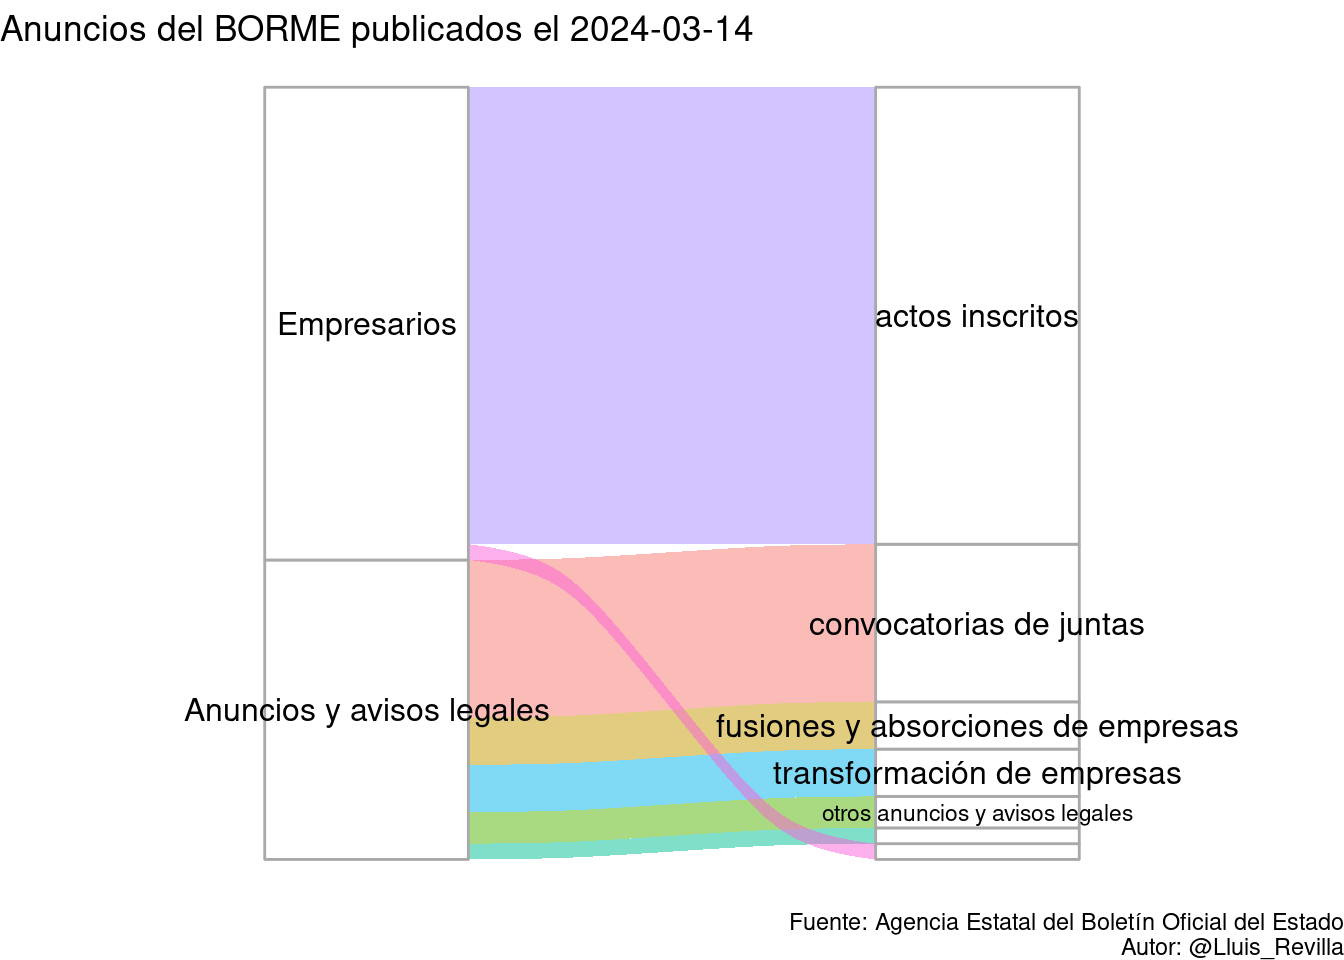
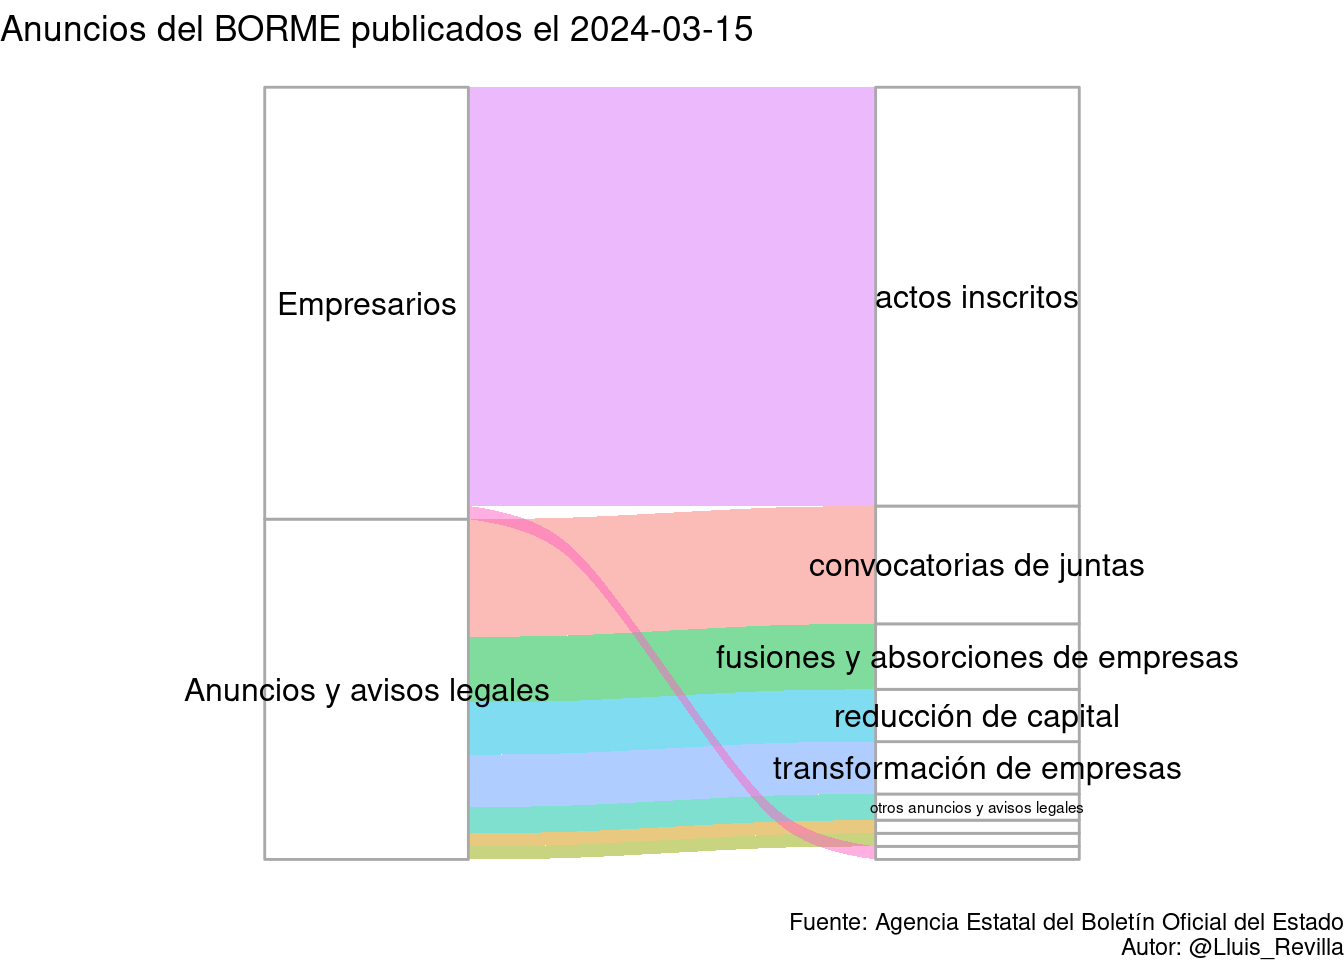
Update BORME

Changed region(s): [[0.125, 0.0938, 0.9375, 0.9062], [0.5312, 0.0, 0.5625, 0.0625]]

diff --git a/docs/last_BORME.html b/docs/last_BORME.html
@@ -379,14 +379,14 @@ $(document).ready(function () {
 
 <div id="resumen-gráfico" class="section level1">
 <h1>Resumen gráfico</h1>
-<p>Esta página web contiene el último sumario del BORME publicado el 2024-03-14 con 49 publicaciones.</p>
+<p>Esta página web contiene el último sumario del BORME publicado el 2024-03-15 con 59 publicaciones.</p>
 <p><img src="last_BORME_files/figure-html/graphics-1.png" width="672" /></p>
 </div>
 <div id="tabla-de-publicaciones" class="section level1">
 <h1>Tabla de publicaciones</h1>
 <p>Aquí está la tabla completa con enlaces a las publicaciones:</p>
-<div class="datatables html-widget html-fill-item-overflow-hidden html-fill-item" id="htmlwidget-f399342e3f650a864ad3" style="width:100%;height:auto;"></div>
-<script type="application/json" data-for="htmlwidget-f399342e3f650a864ad3">{"x":{"filter":"top","vertical":false,"filterHTML":"<tr>\n  <td><\/td>\n  <td data-type=\"character\" style=\"vertical-align: top;\">\n    <div class=\"form-group has-feedback\" style=\"margin-bottom: auto;\">\n      <input type=\"search\" placeholder=\"All\" class=\"form-control\" style=\"width: 100%;\"/>\n      <span class=\"glyphicon glyphicon-remove-circle form-control-feedback\"><\/span>\n    <\/div>\n  <\/td>\n  <td data-type=\"character\" style=\"vertical-align: top;\">\n    <div class=\"form-group has-feedback\" style=\"margin-bottom: auto;\">\n      <input type=\"search\" placeholder=\"All\" class=\"form-control\" style=\"width: 100%;\"/>\n      <span class=\"glyphicon glyphicon-remove-circle form-control-feedback\"><\/span>\n    <\/div>\n  <\/td>\n  <td data-type=\"character\" style=\"vertical-align: top;\">\n    <div class=\"form-group has-feedback\" style=\"margin-bottom: auto;\">\n      <input type=\"search\" placeholder=\"All\" class=\"form-control\" style=\"width: 100%;\" disabled=\"\"/>\n      <span class=\"glyphicon glyphicon-remove-circle form-control-feedback\"><\/span>\n    <\/div>\n  <\/td>\n  <td data-type=\"character\" style=\"vertical-align: top;\">\n    <div class=\"form-group has-feedback\" style=\"margin-bottom: auto;\">\n      <input type=\"search\" placeholder=\"All\" class=\"form-control\" style=\"width: 100%;\"/>\n      <span class=\"glyphicon glyphicon-remove-circle form-control-feedback\"><\/span>\n    <\/div>\n  <\/td>\n<\/tr>","data":[["1","2","3","4","5","6","7","8","9","10","11","12","13","14","15","16","17","18","19","20","21","22","23","24","25","26","27","28","29","30","31","32","33","34","35","36","37","38","39","40","41","42","43","44","45","46","47","48","49"],["SECCIÓN PRIMERA. Empresarios","SECCIÓN PRIMERA. Empresarios","SECCIÓN PRIMERA. Empresarios","SECCIÓN PRIMERA. Empresarios","SECCIÓN PRIMERA. Empresarios","SECCIÓN PRIMERA. Empresarios","SECCIÓN PRIMERA. Empresarios","SECCIÓN PRIMERA. Empresarios","SECCIÓN PRIMERA. Empresarios","SECCIÓN PRIMERA. Empresarios","SECCIÓN PRIMERA. Empresarios","SECCIÓN PRIMERA. Empresarios","SECCIÓN PRIMERA. Empresarios","SECCIÓN PRIMERA. Empresarios","SECCIÓN PRIMERA. Empresarios","SECCIÓN PRIMERA. Empresarios","SECCIÓN PRIMERA. Empresarios","SECCIÓN PRIMERA. Empresarios","SECCIÓN PRIMERA. Empresarios","SECCIÓN PRIMERA. Empresarios","SECCIÓN PRIMERA. Empresarios","SECCIÓN PRIMERA. Empresarios","SECCIÓN PRIMERA. Empresarios","SECCIÓN PRIMERA. Empresarios","SECCIÓN PRIMERA. Empresarios","SECCIÓN PRIMERA. Empresarios","SECCIÓN PRIMERA. Empresarios","SECCIÓN PRIMERA. Empresarios","SECCIÓN PRIMERA. Empresarios","SECCIÓN PRIMERA. Empresarios","SECCIÓN SEGUNDA. Anuncios y avisos legales","SECCIÓN SEGUNDA. Anuncios y avisos legales","SECCIÓN SEGUNDA. Anuncios y avisos legales","SECCIÓN SEGUNDA. Anuncios y avisos legales","SECCIÓN SEGUNDA. Anuncios y avisos legales","SECCIÓN SEGUNDA. Anuncios y avisos legales","SECCIÓN SEGUNDA. Anuncios y avisos legales","SECCIÓN SEGUNDA. Anuncios y avisos legales","SECCIÓN SEGUNDA. Anuncios y avisos legales","SECCIÓN SEGUNDA. Anuncios y avisos legales","SECCIÓN SEGUNDA. Anuncios y avisos legales","SECCIÓN SEGUNDA. Anuncios y avisos legales","SECCIÓN SEGUNDA. Anuncios y avisos legales","SECCIÓN SEGUNDA. Anuncios y avisos legales","SECCIÓN SEGUNDA. Anuncios y avisos legales","SECCIÓN SEGUNDA. Anuncios y avisos legales","SECCIÓN SEGUNDA. Anuncios y avisos legales","SECCIÓN SEGUNDA. Anuncios y avisos legales","SECCIÓN SEGUNDA. Anuncios y avisos legales"],["Actos inscritos","Actos inscritos","Actos inscritos","Actos inscritos","Actos inscritos","Actos inscritos","Actos inscritos","Actos inscritos","Actos inscritos","Actos inscritos","Actos inscritos","Actos inscritos","Actos inscritos","Actos inscritos","Actos inscritos","Actos inscritos","Actos inscritos","Actos inscritos","Actos inscritos","Actos inscritos","Actos inscritos","Actos inscritos","Actos inscritos","Actos inscritos","Actos inscritos","Actos inscritos","Actos inscritos","Actos inscritos","Actos inscritos","Otros actos publicados en el Registro Mercantil","CONVOCATORIAS DE JUNTAS","CONVOCATORIAS DE JUNTAS","CONVOCATORIAS DE JUNTAS","CONVOCATORIAS DE JUNTAS","CONVOCATORIAS DE JUNTAS","CONVOCATORIAS DE JUNTAS","CONVOCATORIAS DE JUNTAS","CONVOCATORIAS DE JUNTAS","CONVOCATORIAS DE JUNTAS","CONVOCATORIAS DE JUNTAS","FUSIONES Y ABSORCIONES DE EMPRESAS","FUSIONES Y ABSORCIONES DE EMPRESAS","FUSIONES Y ABSORCIONES DE EMPRESAS","TRANSFORMACIÓN DE EMPRESAS","TRANSFORMACIÓN DE EMPRESAS","TRANSFORMACIÓN DE EMPRESAS","REDUCCIÓN DE CAPITAL","OTROS ANUNCIOS Y AVISOS LEGALES","OTROS ANUNCIOS Y AVISOS LEGALES"],[null,null,null,null,null,null,null,null,null,null,null,null,null,null,null,null,null,null,null,null,null,null,null,null,null,null,null,null,null,null,null,null,null,null,null,null,null,null,null,null,null,null,null,null,null,null,null,null,null],["BORME-A-2024-53-01","BORME-A-2024-53-02","BORME-A-2024-53-03","BORME-A-2024-53-04","BORME-A-2024-53-06","BORME-A-2024-53-07","BORME-A-2024-53-08","BORME-A-2024-53-11","BORME-A-2024-53-12","BORME-A-2024-53-14","BORME-A-2024-53-15","BORME-A-2024-53-16","BORME-A-2024-53-22","BORME-A-2024-53-24","BORME-A-2024-53-25","BORME-A-2024-53-28","BORME-A-2024-53-29","BORME-A-2024-53-31","BORME-A-2024-53-33","BORME-A-2024-53-34","BORME-A-2024-53-35","BORME-A-2024-53-36","BORME-A-2024-53-38","BORME-A-2024-53-43","BORME-A-2024-53-46","BORME-A-2024-53-47","BORME-A-2024-53-48","BORME-A-2024-53-49","BORME-A-2024-53-99","BORME-B-2024-53-08","BORME-C-2024-813","BORME-C-2024-814","BORME-C-2024-815","BORME-C-2024-816","BORME-C-2024-817","BORME-C-2024-818","BORME-C-2024-819","BORME-C-2024-820","BORME-C-2024-821","BORME-C-2024-822","BORME-C-2024-823","BORME-C-2024-824","BORME-C-2024-825","BORME-C-2024-826","BORME-C-2024-827","BORME-C-2024-828","BORME-C-2024-829","BORME-C-2024-830","BORME-C-2024-831"]],"container":"<table class=\"display\">\n  <thead>\n    <tr>\n      <th> <\/th>\n      <th>Sección<\/th>\n      <th>Emisor<\/th>\n      <th>Texto<\/th>\n      <th>Link<\/th>\n    <\/tr>\n  <\/thead>\n<\/table>","options":{"pageLength":10,"autoWidth":true,"columnDefs":[{"orderable":false,"targets":0},{"name":" ","targets":0},{"name":"Sección","targets":1},{"name":"Emisor","targets":2},{"name":"Texto","targets":3},{"name":"Link","targets":4}],"order":[],"orderClasses":false,"orderCellsTop":true}},"evals":[],"jsHooks":[]}</script>
+<div class="datatables html-widget html-fill-item-overflow-hidden html-fill-item" id="htmlwidget-44293242d05789558b8e" style="width:100%;height:auto;"></div>
+<script type="application/json" data-for="htmlwidget-44293242d05789558b8e">{"x":{"filter":"top","vertical":false,"filterHTML":"<tr>\n  <td><\/td>\n  <td data-type=\"character\" style=\"vertical-align: top;\">\n    <div class=\"form-group has-feedback\" style=\"margin-bottom: auto;\">\n      <input type=\"search\" placeholder=\"All\" class=\"form-control\" style=\"width: 100%;\"/>\n      <span class=\"glyphicon glyphicon-remove-circle form-control-feedback\"><\/span>\n    <\/div>\n  <\/td>\n  <td data-type=\"character\" style=\"vertical-align: top;\">\n    <div class=\"form-group has-feedback\" style=\"margin-bottom: auto;\">\n      <input type=\"search\" placeholder=\"All\" class=\"form-control\" style=\"width: 100%;\"/>\n      <span class=\"glyphicon glyphicon-remove-circle form-control-feedback\"><\/span>\n    <\/div>\n  <\/td>\n  <td data-type=\"character\" style=\"vertical-align: top;\">\n    <div class=\"form-group has-feedback\" style=\"margin-bottom: auto;\">\n      <input type=\"search\" placeholder=\"All\" class=\"form-control\" style=\"width: 100%;\" disabled=\"\"/>\n      <span class=\"glyphicon glyphicon-remove-circle form-control-feedback\"><\/span>\n    <\/div>\n  <\/td>\n  <td data-type=\"character\" style=\"vertical-align: top;\">\n    <div class=\"form-group has-feedback\" style=\"margin-bottom: auto;\">\n      <input type=\"search\" placeholder=\"All\" class=\"form-control\" style=\"width: 100%;\"/>\n      <span class=\"glyphicon glyphicon-remove-circle form-control-feedback\"><\/span>\n    <\/div>\n  <\/td>\n<\/tr>","data":[["1","2","3","4","5","6","7","8","9","10","11","12","13","14","15","16","17","18","19","20","21","22","23","24","25","26","27","28","29","30","31","32","33","34","35","36","37","38","39","40","41","42","43","44","45","46","47","48","49","50","51","52","53","54","55","56","57","58","59"],["SECCIÓN PRIMERA. Empresarios","SECCIÓN PRIMERA. Empresarios","SECCIÓN PRIMERA. Empresarios","SECCIÓN PRIMERA. Empresarios","SECCIÓN PRIMERA. Empresarios","SECCIÓN PRIMERA. Empresarios","SECCIÓN PRIMERA. Empresarios","SECCIÓN PRIMERA. Empresarios","SECCIÓN PRIMERA. Empresarios","SECCIÓN PRIMERA. Empresarios","SECCIÓN PRIMERA. Empresarios","SECCIÓN PRIMERA. Empresarios","SECCIÓN PRIMERA. Empresarios","SECCIÓN PRIMERA. Empresarios","SECCIÓN PRIMERA. Empresarios","SECCIÓN PRIMERA. Empresarios","SECCIÓN PRIMERA. Empresarios","SECCIÓN PRIMERA. Empresarios","SECCIÓN PRIMERA. Empresarios","SECCIÓN PRIMERA. Empresarios","SECCIÓN PRIMERA. Empresarios","SECCIÓN PRIMERA. Empresarios","SECCIÓN PRIMERA. Empresarios","SECCIÓN PRIMERA. Empresarios","SECCIÓN PRIMERA. Empresarios","SECCIÓN PRIMERA. Empresarios","SECCIÓN PRIMERA. Empresarios","SECCIÓN PRIMERA. Empresarios","SECCIÓN PRIMERA. Empresarios","SECCIÓN PRIMERA. Empresarios","SECCIÓN PRIMERA. Empresarios","SECCIÓN PRIMERA. Empresarios","SECCIÓN PRIMERA. Empresarios","SECCIÓN SEGUNDA. Anuncios y avisos legales","SECCIÓN SEGUNDA. Anuncios y avisos legales","SECCIÓN SEGUNDA. Anuncios y avisos legales","SECCIÓN SEGUNDA. Anuncios y avisos legales","SECCIÓN SEGUNDA. Anuncios y avisos legales","SECCIÓN SEGUNDA. Anuncios y avisos legales","SECCIÓN SEGUNDA. Anuncios y avisos legales","SECCIÓN SEGUNDA. Anuncios y avisos legales","SECCIÓN SEGUNDA. Anuncios y avisos legales","SECCIÓN SEGUNDA. Anuncios y avisos legales","SECCIÓN SEGUNDA. Anuncios y avisos legales","SECCIÓN SEGUNDA. Anuncios y avisos legales","SECCIÓN SEGUNDA. Anuncios y avisos legales","SECCIÓN SEGUNDA. Anuncios y avisos legales","SECCIÓN SEGUNDA. Anuncios y avisos legales","SECCIÓN SEGUNDA. Anuncios y avisos legales","SECCIÓN SEGUNDA. Anuncios y avisos legales","SECCIÓN SEGUNDA. Anuncios y avisos legales","SECCIÓN SEGUNDA. Anuncios y avisos legales","SECCIÓN SEGUNDA. Anuncios y avisos legales","SECCIÓN SEGUNDA. Anuncios y avisos legales","SECCIÓN SEGUNDA. Anuncios y avisos legales","SECCIÓN SEGUNDA. Anuncios y avisos legales","SECCIÓN SEGUNDA. Anuncios y avisos legales","SECCIÓN SEGUNDA. Anuncios y avisos legales","SECCIÓN SEGUNDA. Anuncios y avisos legales"],["Actos inscritos","Actos inscritos","Actos inscritos","Actos inscritos","Actos inscritos","Actos inscritos","Actos inscritos","Actos inscritos","Actos inscritos","Actos inscritos","Actos inscritos","Actos inscritos","Actos inscritos","Actos inscritos","Actos inscritos","Actos inscritos","Actos inscritos","Actos inscritos","Actos inscritos","Actos inscritos","Actos inscritos","Actos inscritos","Actos inscritos","Actos inscritos","Actos inscritos","Actos inscritos","Actos inscritos","Actos inscritos","Actos inscritos","Actos inscritos","Actos inscritos","Actos inscritos","Otros actos publicados en el Registro Mercantil","CONVOCATORIAS DE JUNTAS","CONVOCATORIAS DE JUNTAS","CONVOCATORIAS DE JUNTAS","CONVOCATORIAS DE JUNTAS","CONVOCATORIAS DE JUNTAS","CONVOCATORIAS DE JUNTAS","CONVOCATORIAS DE JUNTAS","CONVOCATORIAS DE JUNTAS","CONVOCATORIAS DE JUNTAS","FUSIONES Y ABSORCIONES DE EMPRESAS","FUSIONES Y ABSORCIONES DE EMPRESAS","FUSIONES Y ABSORCIONES DE EMPRESAS","FUSIONES Y ABSORCIONES DE EMPRESAS","FUSIONES Y ABSORCIONES DE EMPRESAS","ESCISIÓN DE EMPRESAS","DISOLUCIÓN DE EMPRESAS","TRANSFORMACIÓN DE EMPRESAS","TRANSFORMACIÓN DE EMPRESAS","TRANSFORMACIÓN DE EMPRESAS","TRANSFORMACIÓN DE EMPRESAS","REDUCCIÓN DE CAPITAL","REDUCCIÓN DE CAPITAL","REDUCCIÓN DE CAPITAL","REDUCCIÓN DE CAPITAL","OTROS ANUNCIOS Y AVISOS LEGALES","OTROS ANUNCIOS Y AVISOS LEGALES"],[null,null,null,null,null,null,null,null,null,null,null,null,null,null,null,null,null,null,null,null,null,null,null,null,null,null,null,null,null,null,null,null,null,null,null,null,null,null,null,null,null,null,null,null,null,null,null,null,null,null,null,null,null,null,null,null,null,null,null],["BORME-A-2024-54-02","BORME-A-2024-54-03","BORME-A-2024-54-04","BORME-A-2024-54-06","BORME-A-2024-54-07","BORME-A-2024-54-08","BORME-A-2024-54-09","BORME-A-2024-54-10","BORME-A-2024-54-11","BORME-A-2024-54-13","BORME-A-2024-54-14","BORME-A-2024-54-15","BORME-A-2024-54-17","BORME-A-2024-54-18","BORME-A-2024-54-19","BORME-A-2024-54-20","BORME-A-2024-54-24","BORME-A-2024-54-25","BORME-A-2024-54-27","BORME-A-2024-54-28","BORME-A-2024-54-30","BORME-A-2024-54-33","BORME-A-2024-54-35","BORME-A-2024-54-36","BORME-A-2024-54-37","BORME-A-2024-54-38","BORME-A-2024-54-40","BORME-A-2024-54-43","BORME-A-2024-54-45","BORME-A-2024-54-46","BORME-A-2024-54-47","BORME-A-2024-54-99","BORME-B-2024-54-08","BORME-C-2024-832","BORME-C-2024-833","BORME-C-2024-834","BORME-C-2024-835","BORME-C-2024-836","BORME-C-2024-837","BORME-C-2024-838","BORME-C-2024-839","BORME-C-2024-840","BORME-C-2024-841","BORME-C-2024-842","BORME-C-2024-843","BORME-C-2024-844","BORME-C-2024-845","BORME-C-2024-846","BORME-C-2024-847","BORME-C-2024-848","BORME-C-2024-849","BORME-C-2024-850","BORME-C-2024-851","BORME-C-2024-852","BORME-C-2024-853","BORME-C-2024-854","BORME-C-2024-855","BORME-C-2024-856","BORME-C-2024-857"]],"container":"<table class=\"display\">\n  <thead>\n    <tr>\n      <th> <\/th>\n      <th>Sección<\/th>\n      <th>Emisor<\/th>\n      <th>Texto<\/th>\n      <th>Link<\/th>\n    <\/tr>\n  <\/thead>\n<\/table>","options":{"pageLength":10,"autoWidth":true,"columnDefs":[{"orderable":false,"targets":0},{"name":" ","targets":0},{"name":"Sección","targets":1},{"name":"Emisor","targets":2},{"name":"Texto","targets":3},{"name":"Link","targets":4}],"order":[],"orderClasses":false,"orderCellsTop":true}},"evals":[],"jsHooks":[]}</script>
 </div>
 
 
